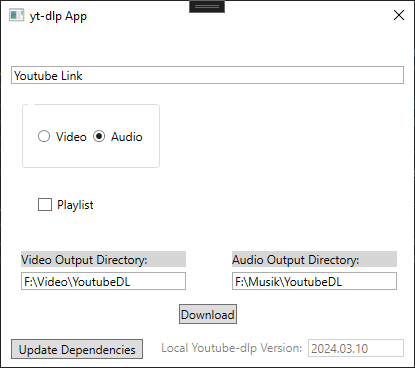
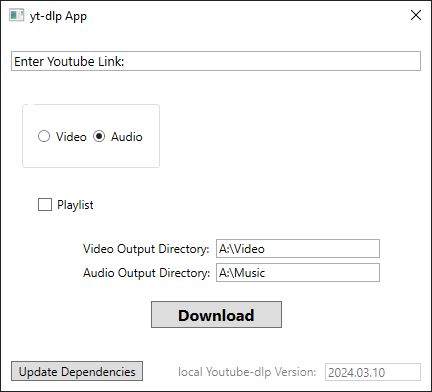
Changed Preview Image and default path text

diff --git a/YoutubeDLApp/Properties/Settings.Designer.cs b/YoutubeDLApp/Properties/Settings.Designer.cs
@@ -25,7 +25,7 @@ namespace YoutubeDLApp.Properties {
         
         [global::System.Configuration.UserScopedSettingAttribute()]
         [global::System.Diagnostics.DebuggerNonUserCodeAttribute()]
-        [global::System.Configuration.DefaultSettingValueAttribute("Output Directory for Videos")]
+        [global::System.Configuration.DefaultSettingValueAttribute("")]
         public string VideoOutputDir {
             get {
                 return ((string)(this["VideoOutputDir"]));
@@ -49,7 +49,7 @@ namespace YoutubeDLApp.Properties {
         
         [global::System.Configuration.UserScopedSettingAttribute()]
         [global::System.Diagnostics.DebuggerNonUserCodeAttribute()]
-        [global::System.Configuration.DefaultSettingValueAttribute("Output Directory for Audio Files")]
+        [global::System.Configuration.DefaultSettingValueAttribute("")]
         public string AudioOutputDir {
             get {
                 return ((string)(this["AudioOutputDir"]));
